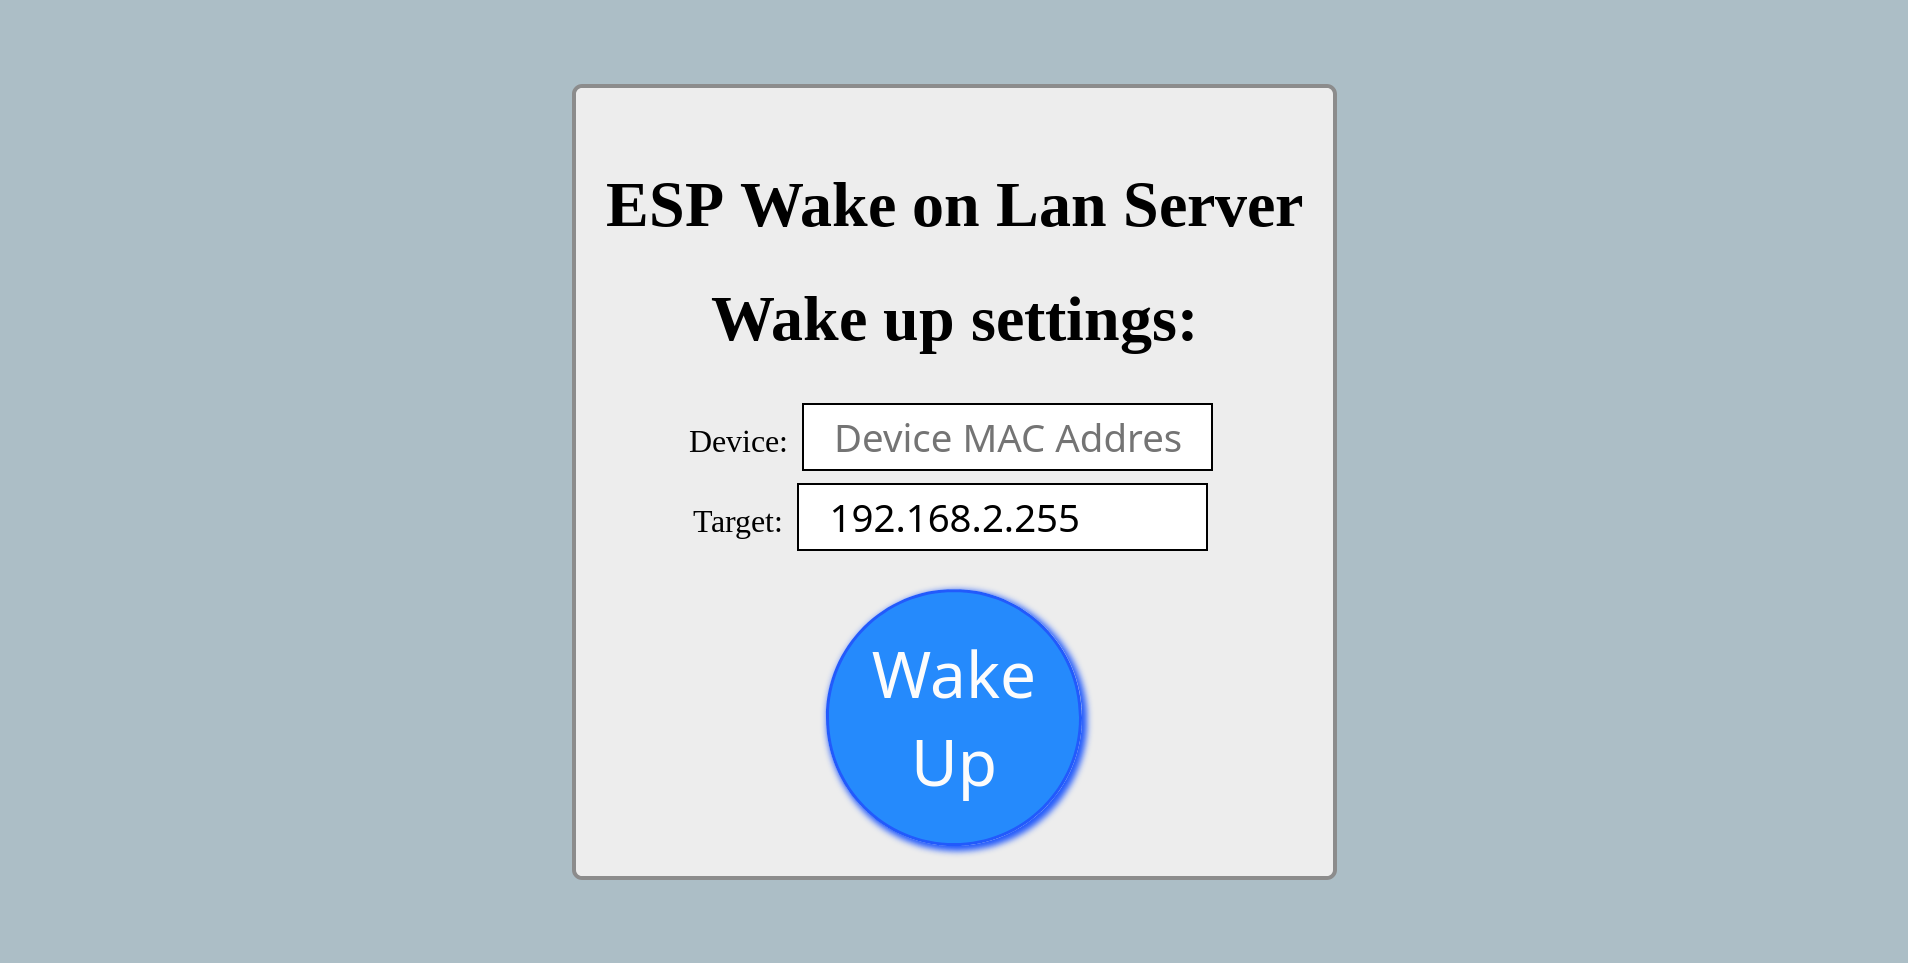
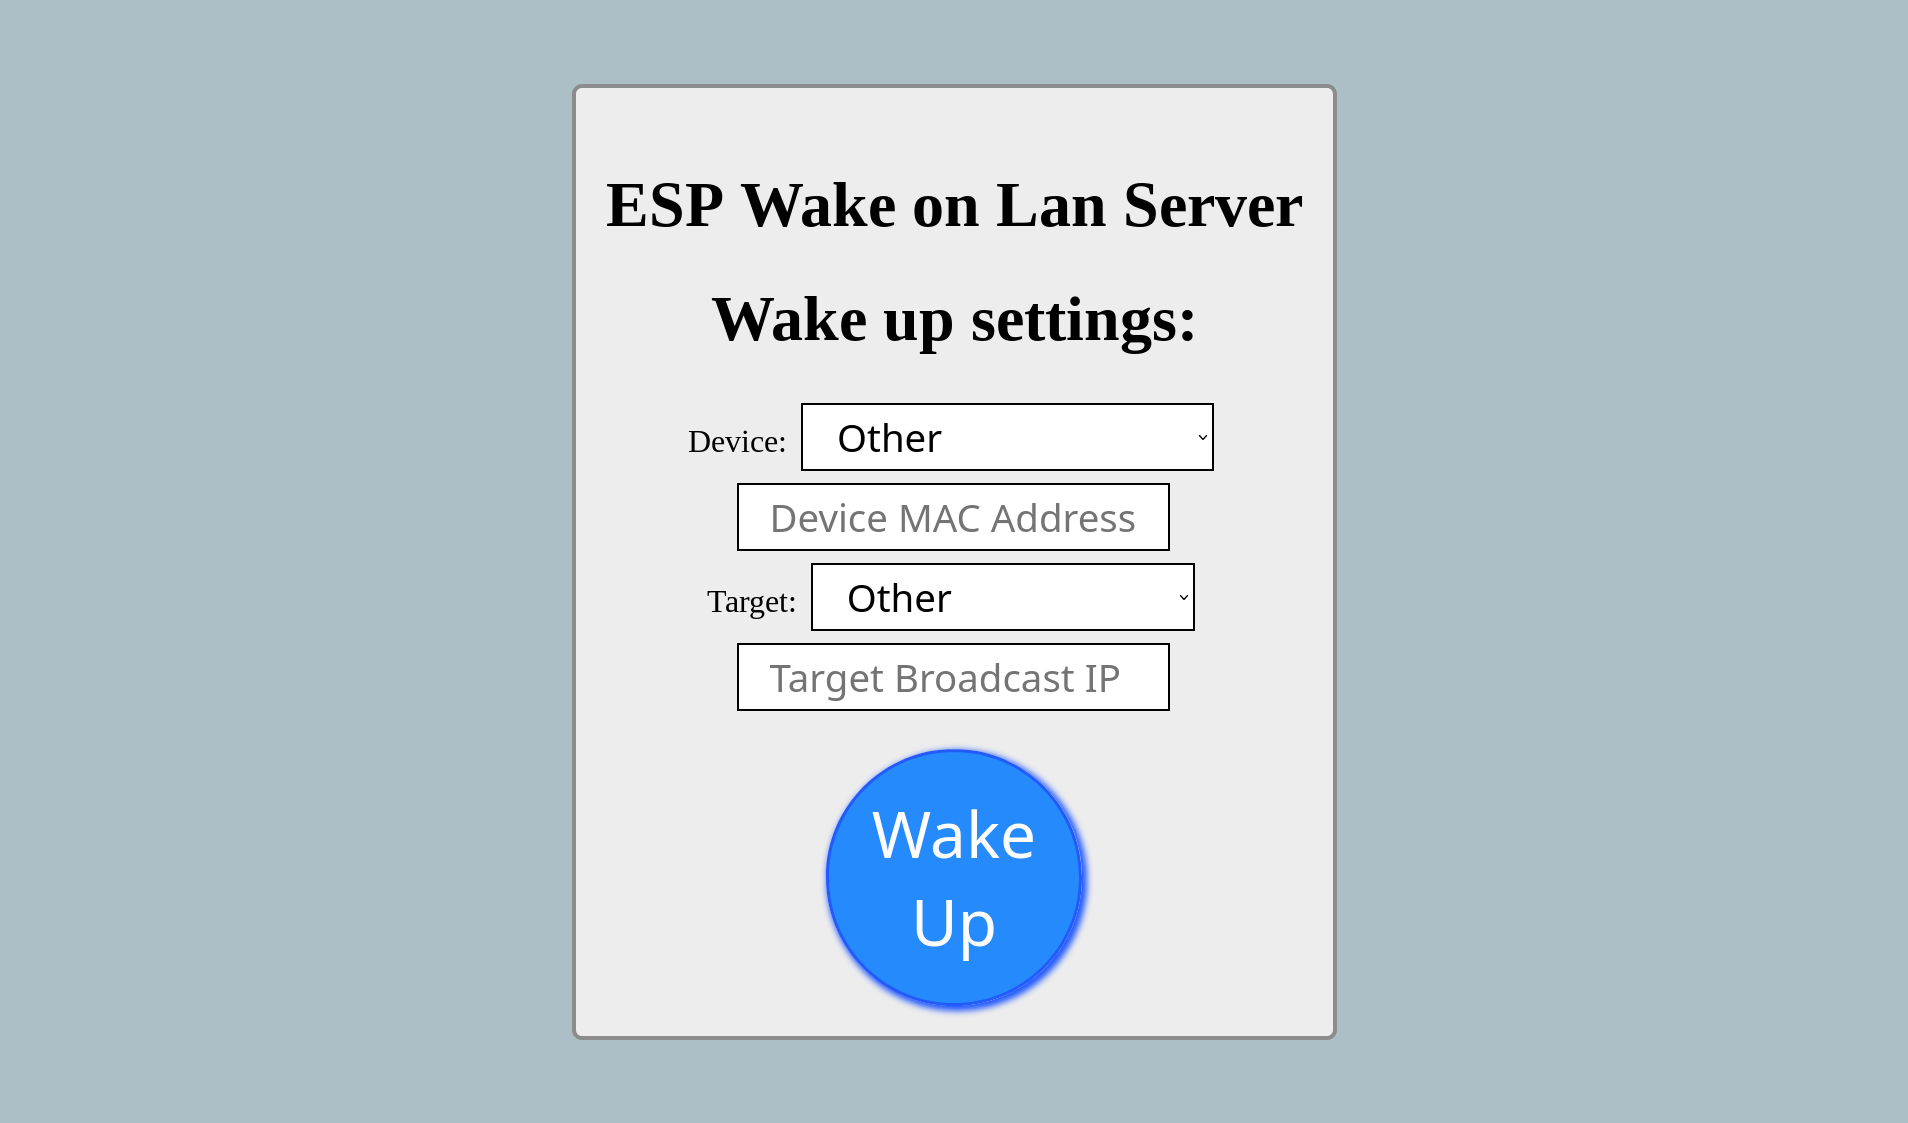
Change MAC address and target IP input to a dropdown with an "other" opt
which reveals a text input to put a custom address in

Changed region(s): [[0.2783, 0.1558, 0.7112, 0.9346], [0.2783, 0.0623, 0.7112, 0.0935]]

diff --git a/src/html/index.html b/src/html/index.html
@@ -5,6 +5,7 @@
 <meta name="author" content="ToMe25">
 <title>ESP Wake on Lan Server</title>
 <link rel="stylesheet" type="text/css" href="main.css">
+<script type="text/javascript" src="index.js"></script>
 </head>
 <body>
 	<form class="main" method="post">
@@ -12,26 +13,28 @@
 		<br />
 		<h1>ESP Wake on Lan Server</h1>
 		<h1>Wake up settings:</h1>
-		<label for="device">Device: </label> <input class="input" type="text"
+		<label for="device">Device: </label> <select class="input"
 			name="device" id="device"
+			title="The MAC address of the device to wake up." required>$devices
+			<option value="Other">Other</option>
+		</select><br /> <input class="input" type="text" name="custom_device"
+			id="custom_device"
 			pattern="[a-fA-F0-9]{2}:[a-fA-F0-9]{2}:[a-fA-F0-9]{2}:[a-fA-F0-9]{2}:[a-fA-F0-9]{2}:[a-fA-F0-9]{2}"
 			title="The MAC address of the device to wake up."
 			alt="The MAC address of the device to wake up."
-			placeholder="Device MAC Address"
-			list="devices" value="$device" minlength="17" maxlength="17"
-			size="11" required />
-		<datalist id="devices">$devices
-		</datalist>
-		<br /> <label for="target">Target: </label> <input class="input"
-			type="text" pattern="\d{1,3}\.\d{1,3}\.\d{1,3}\.\d{1,3}"
-			name="target" id="target"
+			placeholder="Device MAC Address" minlength="17" maxlength="17"
+			size="12" hidden="true" /> <br /> <label for="target">Target:
+		</label> <select class="input" name="target" id="target"
+			title="The broadcast IP address to send the wake on lan packet to."
+			required>$targets
+			<option value="Other">Other</option>
+		</select><br /> <input class="input" type="text"
+			pattern="\d{1,3}\.\d{1,3}\.\d{1,3}\.\d{1,3}" name="custom_target"
+			id="custom_target"
 			title="The broadcast IP address to send the wake on lan packet to."
 			alt="The broadcast IP address to send the wake on lan packet to."
-			placeholder="Target Broadcast IP"
-			list="targets" value="$target" size="11" maxlength="15" required />
-		<datalist id="targets">$targets
-		</datalist>
-		<br />
+			placeholder="Target Broadcast IP" size="12" maxlength="15"
+			hidden="true" /> <br />
 		<button class="wakeup" type="submit">Wake Up</button>
 	</form>
 </body>

diff --git a/src/html/index.js b/src/html/index.js
@@ -1,0 +1,31 @@
+var device_select
+var device_input
+var target_select
+var target_input
+
+function init() {
+	device_select = document.getElementById("device")
+	device_select.onchange = onchange
+	device_input = document.getElementById("custom_device")
+	target_select = document.getElementById("target")
+	target_select.onchange = onchange
+	target_input = document.getElementById("custom_target")
+
+	onchange()
+}
+
+function onchange() {
+	if (device_select.selectedOptions[0].value == "Other") {
+		device_input.hidden = false
+	} else {
+		device_input.hidden = true
+	}
+
+	if (target_select.selectedOptions[0].value == "Other") {
+		target_input.hidden = false
+	} else {
+		target_input.hidden = true
+	}
+}
+
+window.onload = init

diff --git a/src/NetworkHandler.cpp b/src/NetworkHandler.cpp
@@ -95,6 +95,10 @@ void NetworkHandler::setupWebServer() {
 	webServer.on("/index.html", HTTP_GET, onIndexGet);
 	webServer.on("/index.html", HTTP_POST, onIndexPost);
 
+	webServer.on("/index.js", HTTP_GET, [](AsyncWebServerRequest *request) {
+		request->send(200, "text/javascript", INDEX_JS);
+	});
+
 	webServer.on("/main.css", HTTP_GET, [](AsyncWebServerRequest *request) {
 		request->send(200, "text/css", MAIN_CSS);
 	});
@@ -152,6 +156,22 @@ void NetworkHandler::onIndexPost(AsyncWebServerRequest *request) {
 		String device = request->getParam("device", true)->value();
 		String target = request->getParam("target", true)->value();
 
+		if (device == "Other") {
+			if (request->hasParam("custom_device", true)) {
+				device = request->getParam("custom_device", true)->value();
+			} else {
+				device = "";
+			}
+		}
+
+		if (target == "Other") {
+			if (request->hasParam("custom_target", true)) {
+				target = request->getParam("custom_target", true)->value();
+			} else {
+				target = "";
+			}
+		}
+
 		IPAddress originalBroadcastTarget = targetBroadcast;
 
 		if (!WakeOnLanGenerator::isValidMac(device.c_str())) {
@@ -199,24 +219,23 @@ void NetworkHandler::onIndexPost(AsyncWebServerRequest *request) {
 std::string NetworkHandler::prepareIndexResponse(const String device, const String target) {
 	std::string response = indexHtml;
 
-	std::string devices;
+	std::string devices = "\n";
 	for (std::string device : deviceMacs) {
 		devices += "<option value=\"";
 		devices += device;
-		devices += "\">\n";
+		devices += "\">";
+		devices += device;
+		devices += "</option>\n";
 	}
 	response = std::regex_replace(response, std::regex("\\$devices"),
 			devices.c_str());
 
 	std::vector<std::string> targetIPs;
 	targetIPs.reserve(4);
-	targetIPs.push_back(std::string(target.c_str()));
-	std::string ip(targetBroadcast.toString().c_str());
-	if (std::count(targetIPs.begin(), targetIPs.end(), ip) == 0) {
-		targetIPs.push_back(ip);
+	if (target.length() > 6) {
+		targetIPs.push_back(std::string(target.c_str()));
 	}
-	IPAddress globalBroadcast(255, 255, 255, 255);
-	ip = std::string(globalBroadcast.toString().c_str());
+	std::string ip(targetBroadcast.toString().c_str());
 	if (std::count(targetIPs.begin(), targetIPs.end(), ip) == 0) {
 		targetIPs.push_back(ip);
 	}
@@ -232,12 +251,19 @@ std::string NetworkHandler::prepareIndexResponse(const String device, const Stri
 			targetIPs.push_back(ip);
 		}
 	}
+	IPAddress globalBroadcast(255, 255, 255, 255);
+	ip = std::string(globalBroadcast.toString().c_str());
+	if (std::count(targetIPs.begin(), targetIPs.end(), ip) == 0) {
+		targetIPs.push_back(ip);
+	}
 
-	std::string targets;
+	std::string targets = "\n";
 	for (std::string target : targetIPs) {
 		targets += "<option value=\"";
 		targets += target;
-		targets += "\">\n";
+		targets += "\">";
+		targets += target;
+		targets += "</option>\n";
 	}
 	response = std::regex_replace(response, std::regex("\\$targets"),
 			targets.c_str());

diff --git a/src/NetworkHandler.h b/src/NetworkHandler.h
@@ -30,6 +30,7 @@ extern const char OTA_PASS[] asm("_binary_otapass_txt_start");
 extern const char DEVICE_MACS[] asm("_binary_devices_txt_start");
 
 extern const char INDEX_HTML[] asm("_binary_src_html_index_html_start");
+extern const char INDEX_JS[] asm("_binary_src_html_index_js_start");
 extern const char MAIN_CSS[] asm("_binary_src_html_main_css_start");
 extern const char NOT_FOUND_HTML[] asm("_binary_src_html_not_found_html_start");
 
